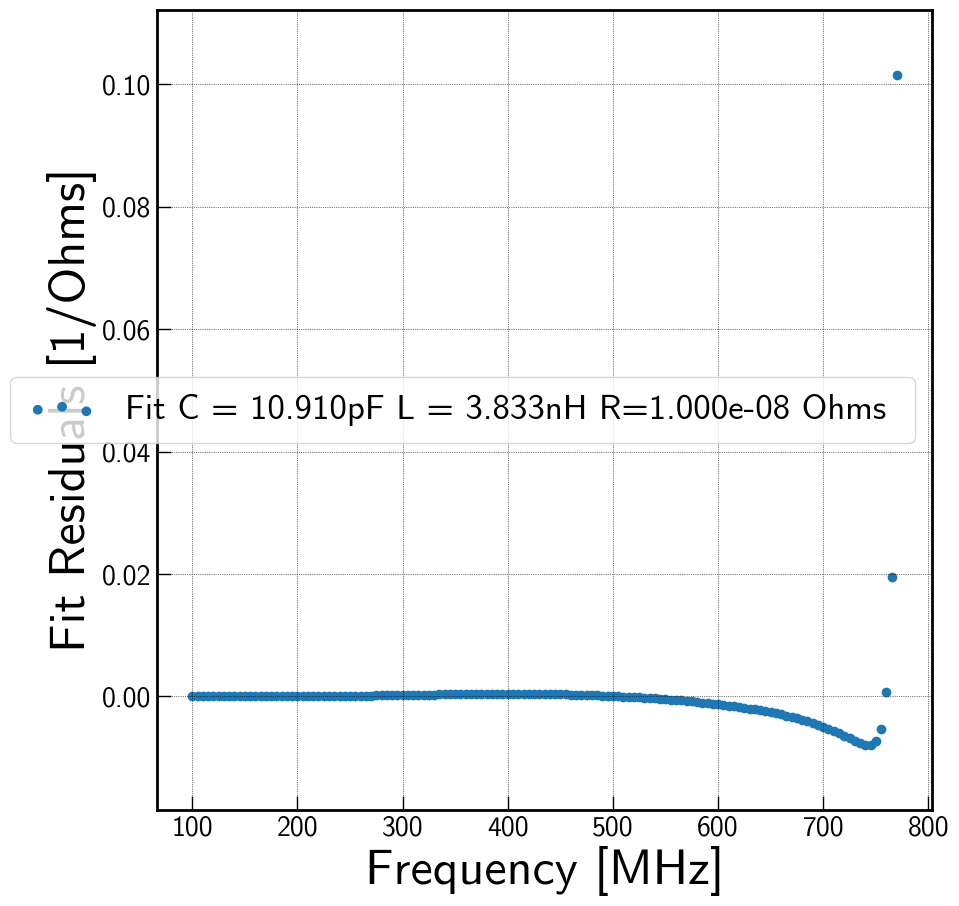
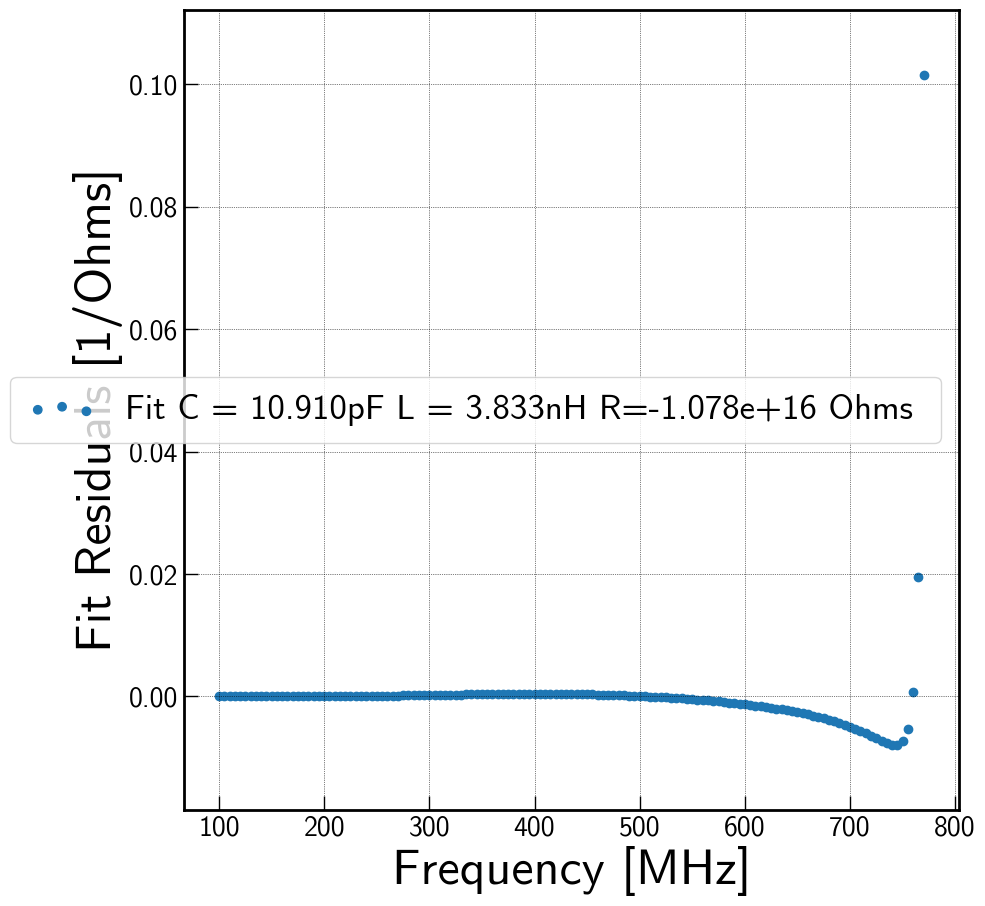
trying different R model

diff --git a/code/TKIDModule_extractQcsfromfullresosims.py b/code/TKIDModule_extractQcsfromfullresosims.py
@@ -422,7 +422,10 @@ def convert_Y_to_Z(Yparams, nports=2):
 
 def admittance_model(x, C, L, R):
     w = 2*pi*x
-    return np.log(w*C/np.sqrt((1 - w**2*L*C)**2 + (w*R*C)**2) )
+    num = (1 - w**2*L*C)**2 + (w*R*C)**2
+    denom = R**2*(1-w**2*L*C)**2
+    return np.log(np.sqrt(num/denom) )
+    #return np.log(w*C/np.sqrt((1 - w**2*L*C)**2 + (w*R*C)**2) )
     #return np.log(np.abs(1j*w*C/(1 - w**2*L*C + 1j*w*R*C)))
 
 def admittance_model_parallel(x, C, L, R):
@@ -454,11 +457,10 @@ def get_cap_params(Ydata, savename):
     L_est = 1/(wpeak**2*C_est)
     fpeak = wpeak/2/pi
     #L_est = 1e-20
-    R_est = 1e-8
+    R_est = 1e8
     #C1_est = 2.0*pF
     nY21 = nY21[f < fpeak]
     f = f[f < fpeak]
-
 
     p0 = [C_est, L_est, R_est]
     #pdb.set_trace()
